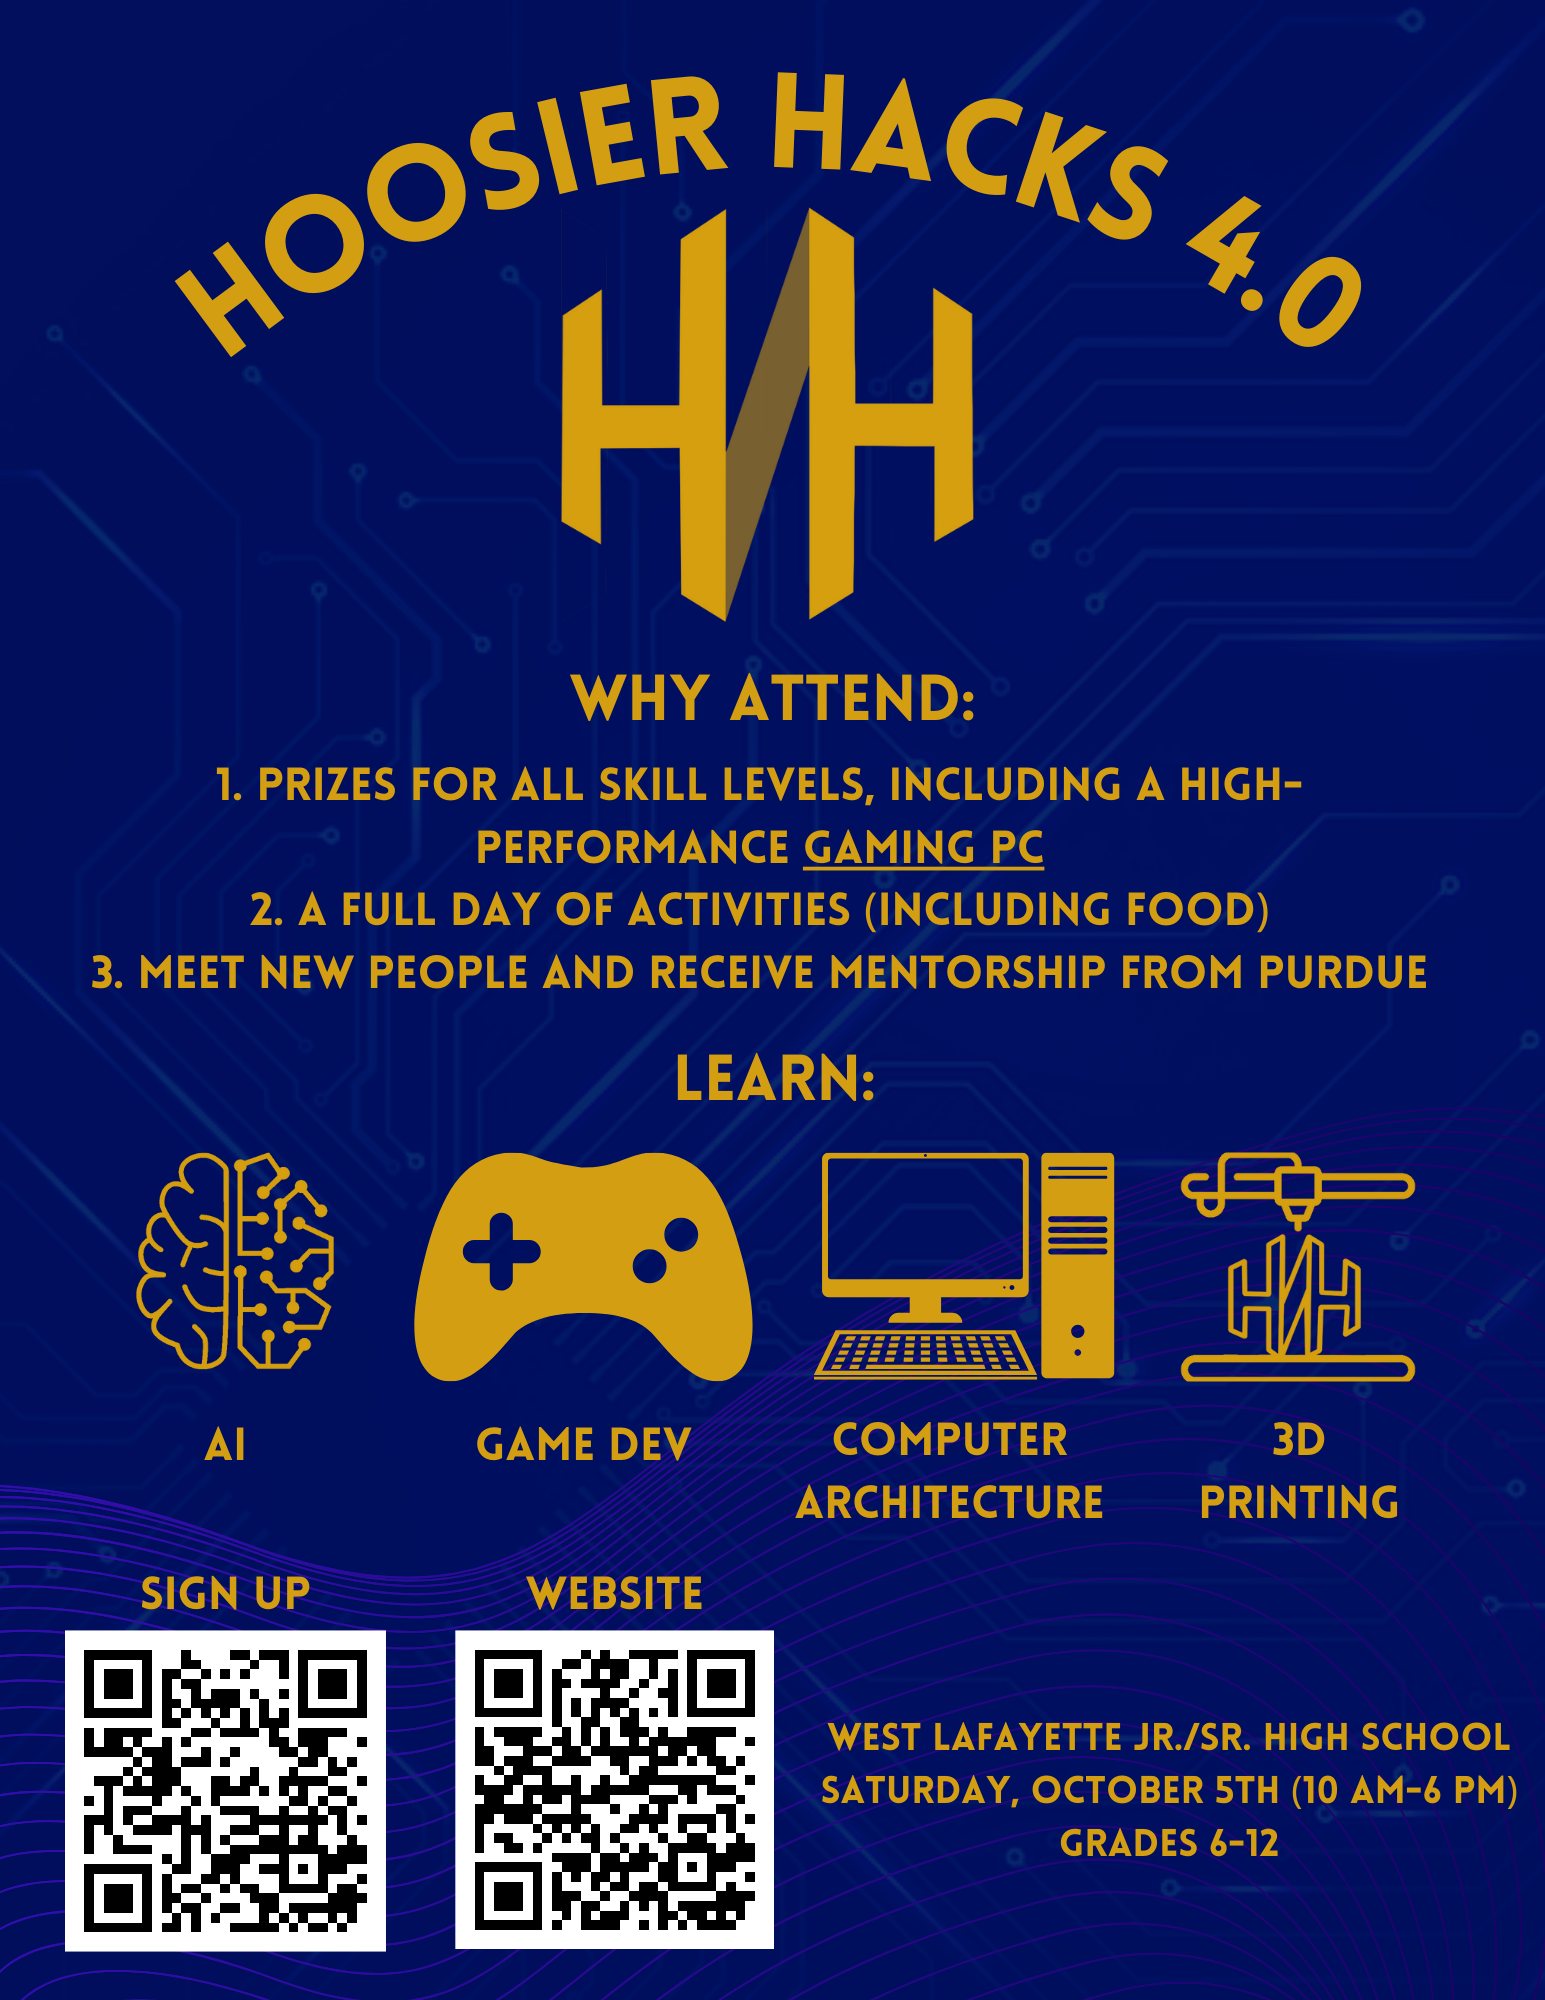
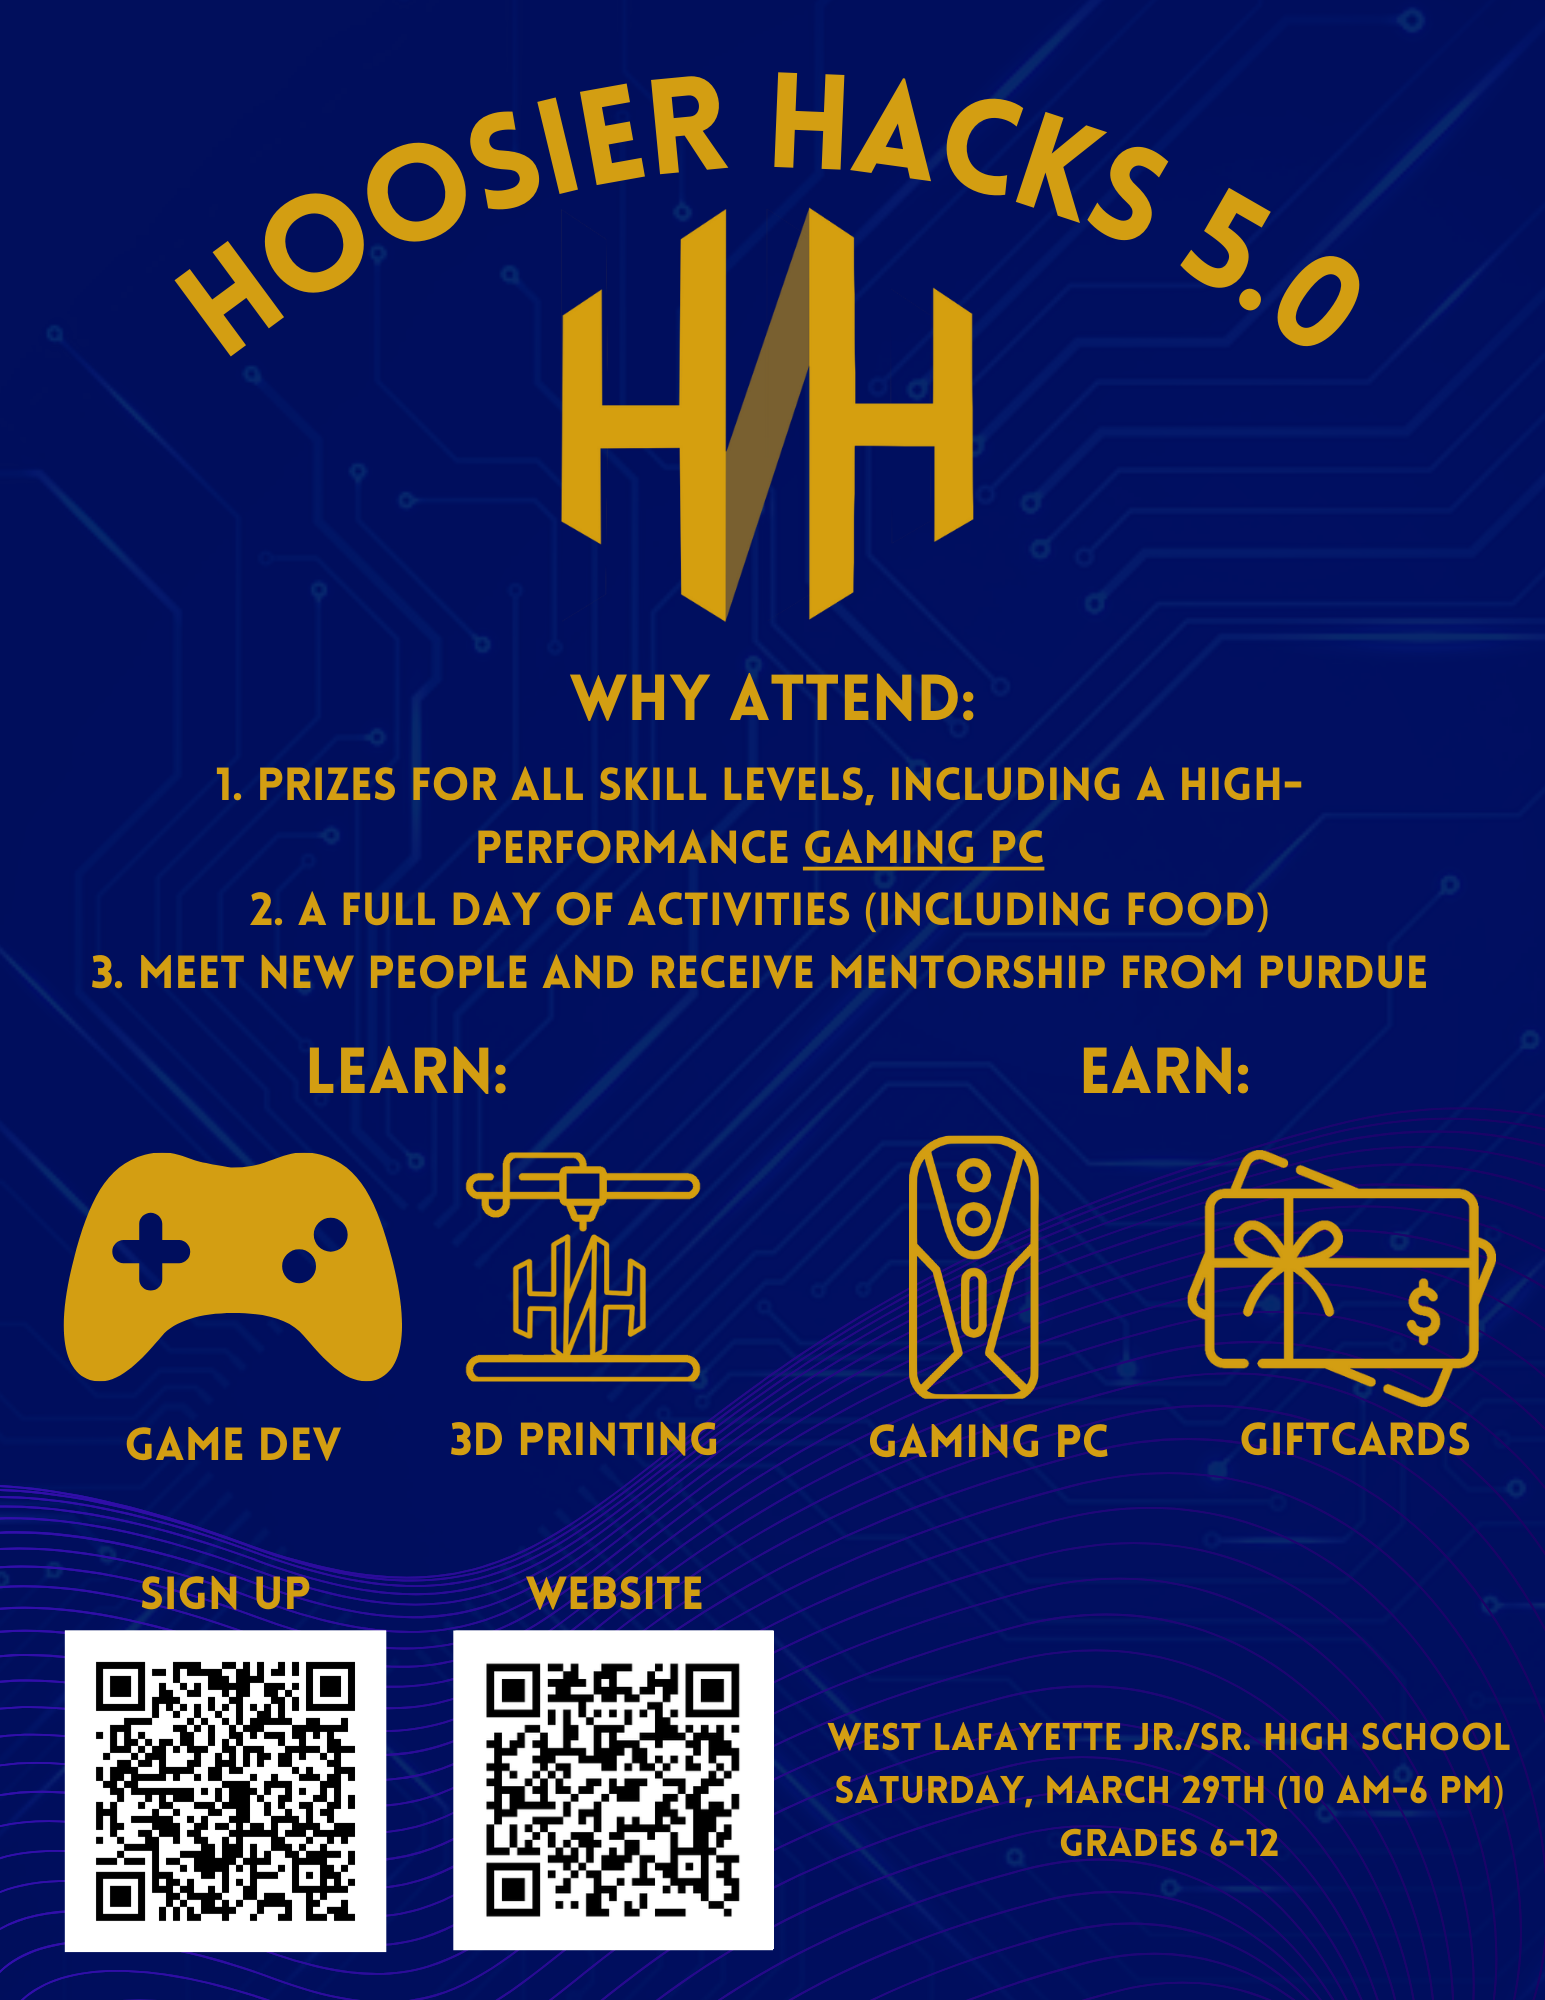
feat: updated hackathon schedule + workshops + new flyer

diff --git a/hackathon/workshops.html b/hackathon/workshops.html
@@ -23,45 +23,14 @@ permalink: /hackathon/workshops/
     </div>
     <div class="card m-5">
       <div class="card-title m-3">
-        <h2>AI Game</h2>
+        <h2>Game Development</h2>
       </div>
       <div class="card-body">
         <div class="row">
           <div class="col-md">
-            <img src="/assets/hackathon/machine_learning.png" alt="Machine Learning" class="py-2 mw-100">
           </div>
           <div class="col-md-8">
-            <p class="fs-4">Learn how to incorporate AI into a machine learning model with no code or math required! Machine learning has become increasingly popular in the last few years and the skills learned in this workshop can be transferred to real models.</p>
-          </div>
-        </div>
-      </div>
-    </div>
-    <div class="card m-5">
-      <div class="card-title m-3">
-        <h2>Python</h2>
-      </div>
-      <div class="card-body">
-        <div class="row">
-          <div class="col-md-9">
-            <p class="fs-4">This workshop is designed for new programmers to learn the syntax of python and write their first programs. The skills learned in this workshop can be used to create a project at this hackathon, but in 21st century, knowing how to code is a basic skill that everyone should learn and this workshop will allow you to start your journey into becoming a programmer.</p>
-          </div>
-          <div class="col-md">
-            <img src="https://s3.dualstack.us-east-2.amazonaws.com/pythondotorg-assets/media/community/logos/python-logo-only.png" alt="Python" class="py-2 mw-100">
-          </div>
-        </div>
-      </div>
-    </div>
-    <div class="card m-5">
-      <div class="card-title m-3">
-        <h2>Computer Architecture</h2>
-      </div>
-      <div class="card-body">
-        <div class="row">
-          <div class="col-md">
-            <img src="/assets/hackathon/computer_architecture.png" alt="Computer Architecture" class="py-2 mw-100">
-          </div>
-          <div class="col-md-8">
-            <p class="fs-4">Want to learn how to build a custom PC? With the introduction to all the components of a PC, this workshop will help set you up to be able to personally configure all the parts to your custom PC, as well as to understand them thoroughly. CPU, RAM, power supply, and others, we've got a lot to show you!</p>
+            <p class="fs-4"></p>
           </div>
         </div>
       </div>

diff --git a/hackathon/index.html b/hackathon/index.html
@@ -125,16 +125,7 @@ form_link: https://forms.gle/LJcuvpPaHc8q63Fn7
         <th>12:00 - 13:00</th>
         <th>Lunch Break and Work Time</th>
       </tbody>
-      <tbody>
-        <th>13:00 - 14:00</th>
-        <th><a href="/hackathon/workshops/">Workshops</a></th>
-      </tbody>
-      <tbody>
-        <th>14:10 - 15:10</th>
-        <th>Purdue Guest Speaker</th>
-      </tbody>
-      <tbody>
-        <th>15:10 - 17:00</th>
+        <th>13:00 - 17:00</th>
         <th>Work Time</th>
       </tbody>
       <tbody>
@@ -164,6 +155,6 @@ form_link: https://forms.gle/LJcuvpPaHc8q63Fn7
   <div class="container-fluid py-5">
     <h1 class="display-5 fw-bold text-center">Sponsors</h1>
     <p class="fs-4 text-center">Hoosier Hacks thanks all of our sponsors that help make this event possible.</p>
-    <div class="row row-cols-1 row-cols-md-3 g-4 justify-content-center row-gap-4"> </div>
+    <div class="row row-cols-1 row-cols-md-3 g-4 justify-content-center row-gap-4"></div>
   </div>
 </div>
